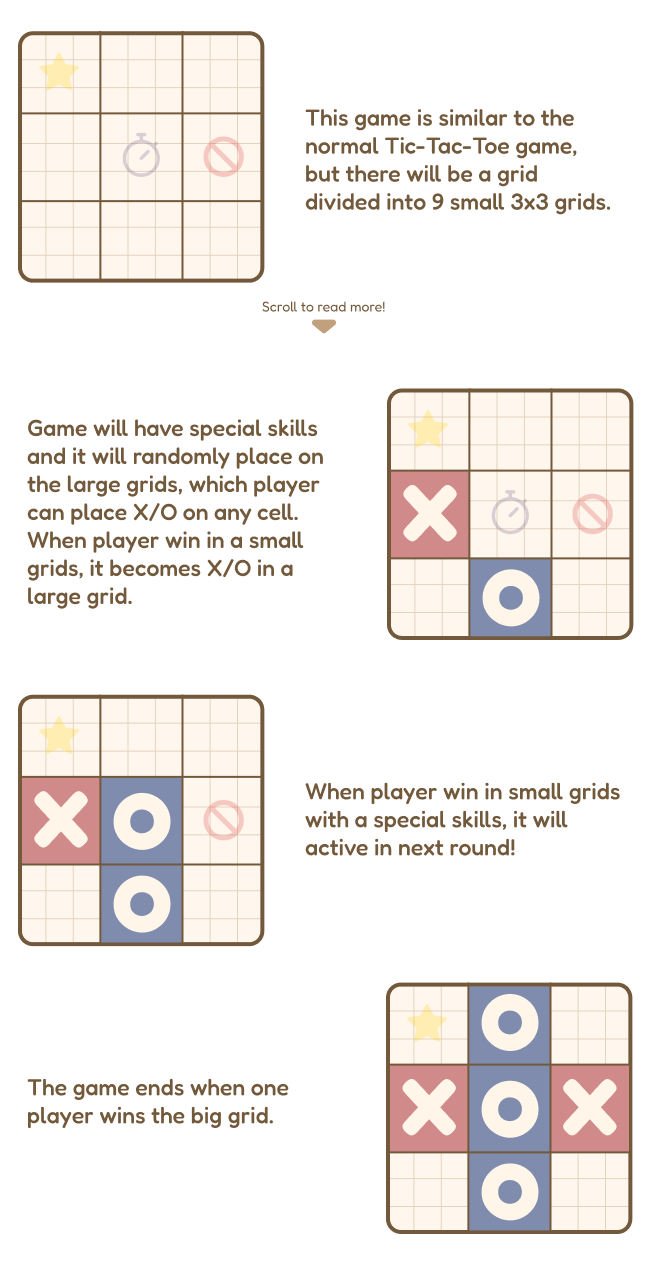
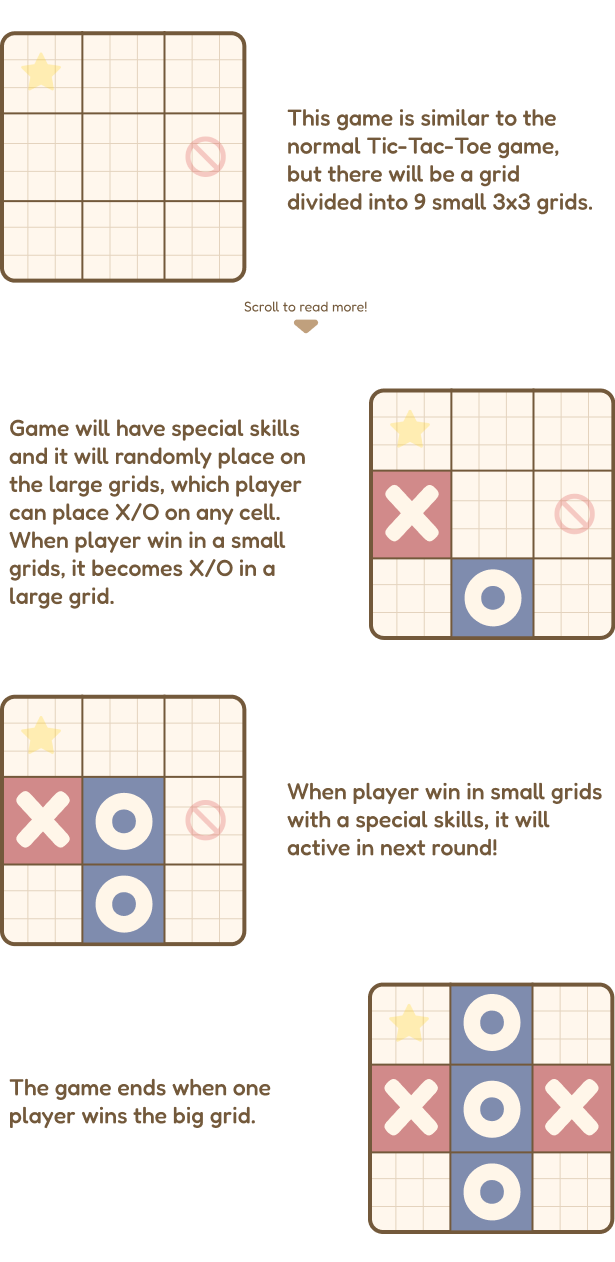
change tutorial pic

diff --git a/src/routes/(protected)/tutorial/+page.svelte b/src/routes/(protected)/tutorial/+page.svelte
@@ -67,26 +67,19 @@
 			<p class="w-100 mb-4 flex text-center text-5xl font-bold tracking-wide text-mongoose-700">
 				SPECIAL SKILLS
 			</p>
-			<div class="skill mx-4 grid h-[50vh] grid-cols-3 gap-8 rounded-xl bg-mongoose-200 px-6">
-				<div class="flex flex-col mt-16 items-center text-center">
+			<div class="skill mx-4 grid h-[50vh] grid-cols-2 gap-8 rounded-xl bg-mongoose-200 px-6">
+				<div class="flex flex-col sm:mt-16 items-center text-center">
 					<img src="/star.png" alt="" class="w-[60%]" />
 					<p class=" mt-4 font-black text-4xl text-[#FF9900]">STAR</p>
 					<p class=" text-lg font-medium text-mongoose-800">
 						Players can place there symbol on top of their opponent's symbol.
 					</p>
 				</div>
-				<div class="flex flex-col mt-16 items-center text-center">
+				<div class="flex flex-col sm:mt-16 items-center text-center">
 					<img src="/no-stopping.png" alt="" class="w-[55%]" />
 					<p class=" mt-4 font-black text-4xl text-[#CB3D3D]">SKIP</p>
 					<p class=" text-lg font-medium text-mongoose-800">
 						Your opponent is not allowed to play in next turn.
-					</p>
-				</div>
-				<div class="flex flex-col mt-16 items-center text-center">
-					<img src="/Timer.png" alt="" class="w-[60%]" />
-					<p class=" mt-4 font-black text-4xl text-[#513D6C]">TIMER</p>
-					<p class=" text-lg font-medium text-mongoose-800">
-						The next turn your opponent play time reduces to 3 seconds.
 					</p>
 				</div>
 			</div>
